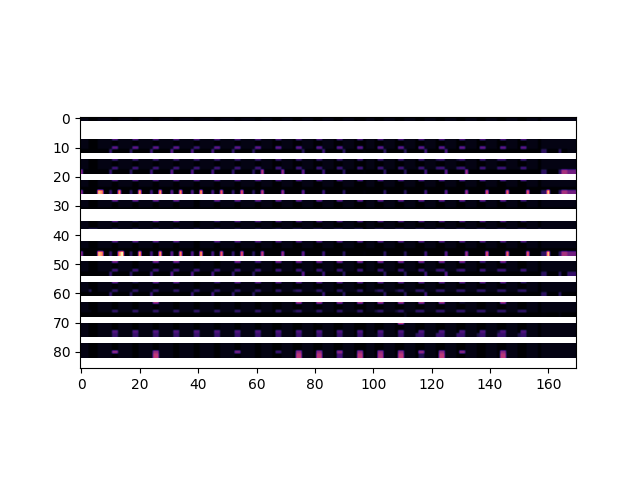
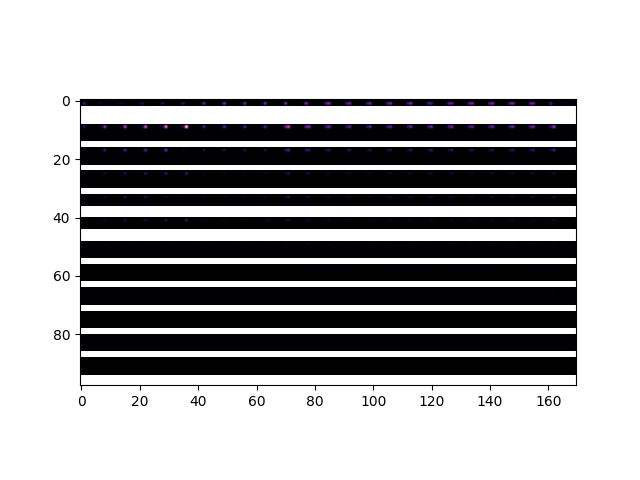
fx

Changed region(s): [[0.0625, 0.5, 0.9062, 0.8438], [0.0625, 0.1875, 0.9062, 0.5]]

diff --git a/CKA_testCLIPVT.py b/CKA_testCLIPVT.py
@@ -108,7 +108,7 @@ def batch_test_method(methodA,methodB=None,convertOO=False,permute=True,dataload
 
     N = len(cka.model1_layers) if cka.model1_layers is not None else len(list(cka.model1.modules()))
     M = len(cka.model2_layers) if cka.model2_layers is not None else len(list(cka.model2.modules()))
-    N=86
+    N=98
     M=170
     cka.m1_matrix=torch.zeros((N,M),device=device)
     cka.m2_matrix=torch.zeros((M),device=device)
@@ -124,7 +124,7 @@ def batch_test_method(methodA,methodB=None,convertOO=False,permute=True,dataload
             
             cka.model2_features = {}
             cka.model1_features = {}
-            print(text.shape)
+            #print(text.shape)
              #shape is B x  77 
 
             EOT_index=text.argmax(dim=1) #shape is B
@@ -139,14 +139,14 @@ def batch_test_method(methodA,methodB=None,convertOO=False,permute=True,dataload
                 #3 permute based on those indices
                 #4 continue as normal
                 feat1=feat1[0]
-                # print(feat1)
+                
+                if feat1.shape[0]==77:
+                    feat1=feat1[EOT_index,torch.arange(feat1.shape[1])]
+                    #print(feat1.shape)
+                    #feat 1 is shape 10 x hidden
+                    #we're going to do an @text_projection
+                    feat1=feat1 @ model.text_projection
                 if feat1.shape[0]==10:
-                    if len(feat1.shape)==3: #B,seq,hidden
-                        if feat1.shape[1]==77:
-                            feat1=feat1[torch.arange(feat1.shape[0]),EOT_index]
-                        elif feat1.shape[2]==77:
-                            feat1=feat1[torch.arange(feat1.shape[0]),:,EOT_index]
-                        X = feat1.flatten(1)
                     X = feat1.flatten(1)
                                 
                     features.append((X @ X.t()).fill_diagonal_(0))

diff --git a/model/PruneCalculation.py b/model/PruneCalculation.py
@@ -55,11 +55,11 @@ class PruneHook(EntropyHook):
         self.args=kwargs
         self.activations =set([nn.Linear])#set([nn.LeakyReLU, nn.ReLU, nn.ELU, nn.Sigmoid, nn.GELU,QuickGELU, nn.Tanh, nn.PReLU])
         self.Gamma=torch.tensor(Gamma, dtype=torch.float32,device=self.device)
-  
+        
     def set_up(self):
         self.remove()
         self.features=defaultdict(lambda: torch.zeros((1,self.Gamma.shape[0]+1), dtype=torch.float32, device=self.device))
-        self.handles.extend( [module.register_forward_hook(partial(self.hook, layer_name=module_name)) for module_name, module in self.named_modules() if type(module) in self.activations])
+        self.handles.extend( [module.register_forward_hook(partial(self.hook, layer_name=module_name)) for module_name, module in self.model.named_modules() if type(module) in self.activations])
 # line 62, function has no attribute named modules fix: self.model.named... -> self.named...
     def hook(self, layer, input_var, output_var, layer_name):
         #if random()>self.ratio:# here because adds random noise to the data

diff --git a/model/trainclip_v5335DIM.py b/model/trainclip_v5335DIM.py
@@ -95,8 +95,7 @@ class LightningCLIPModule(LightningModule):
         self.prune=prune
         if self.prune:
             from model.PruneCalculation import PruneHook
-            self.pruneHooks=[PruneHook(self.clip.visual,[-1,0,1], 0.1, method="Hard", prune_eta=4, amount=4,fc_pru_bound=-1),
-                             PruneHook(self.clip.transformer,[-1,0,1], 0.1, method="Hard", prune_eta=4, amount=4,fc_pru_bound=-1)]
+            self.pruneHooks=[PruneHook(self.translationModel,[-1,0,1], 0.1, method="Hard", prune_eta=4, amount=4,fc_pru_bound=-1)]
         else:
             self.pruneHooks=[]
         # self.loss=get_loss_calc(reduction='sum',ver=0,mask=torch.ones([1]))

diff --git a/model/trainclip_v533DIM.py b/model/trainclip_v533DIM.py
@@ -84,8 +84,7 @@ class LightningCLIPModule(LightningModule):
         self.prune=prune
         if self.prune:
             from model.PruneCalculation import PruneHook
-            self.pruneHooks=[PruneHook(self.clip.encode_image,[-1,0,1], 0.1, method="Hard", prune_eta=4, amount=4,fc_pru_bound=-1),
-                             PruneHook(self.encoder,[-1,0,1], 0.1, method="Hard", prune_eta=4, amount=4,fc_pru_bound=-1)]
+            self.pruneHooks=[PruneHook(self.encoder,[-1,0,1], 0.1, method="Hard", prune_eta=4, amount=4,fc_pru_bound=-1)]
         else:
             self.pruneHooks=[]
         self.initialize_parameters()

diff --git a/model/nargsLossCalculation.py b/model/nargsLossCalculation.py
@@ -360,7 +360,8 @@ def get_loss_calc(reduction='sum',ver=0,mask=None):
     if ver==0:
 
         def loss(x,y,alpha):
-            return torch.nn.functional.cross_entropy(x,y,reduction=reduction)
+            
+            return torch.nn.functional.cross_entropy(x,y.to(dytpe=torch.int64),reduction=reduction)
 
     elif ver==1:
         #onehot encode mask and multiply by alpha
